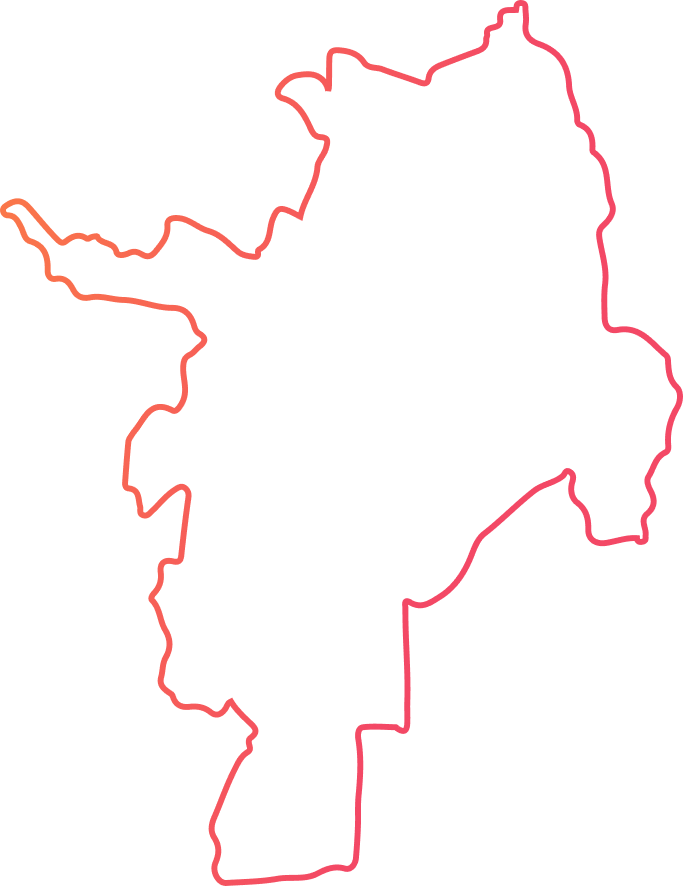
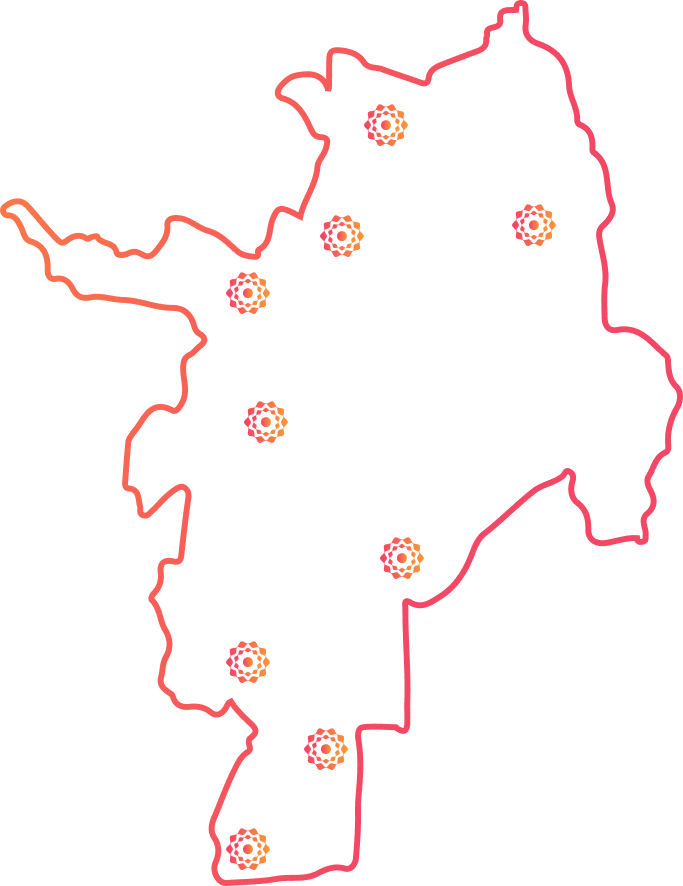
added info and getters

diff --git a/mapa.js b/mapa.js
@@ -1,23 +1,82 @@
 function setup() {
     const w = window.innerWidth;
     const h = window.innerHeight;
+    let  miStorage = window.localStorage;
     createCanvas(w, h);
     img = loadImage('/data/Mapa Cali.png');
     mouse = loadImage('/data/mouse.png')
     imageMode(CENTER);
     document.body.style.cursor = 'none';
 }
+let ubicaciones = [];
 let trail = [];
 let a = 0;
+
+
+ubicaciones[0]={
+    nombre: "Parque la Flora",
+    posX: 824,
+    posY: 137,
+    valor: 130,
+    }
+    ubicaciones[1]={
+    nombre: "Unico",
+    posX: 971,
+    posY: 237,
+    valor: 370,
+    }
+    ubicaciones[2]= {
+    nombre: "San Nicolas",
+    posX: 780,
+    posY: 247,
+    valor: 400,
+    }
+    ubicaciones[3]={
+    nombre: "San Antonio (loma)",
+    posX: 693,
+    posY: 301,
+    valor: 200,
+    }
+    ubicaciones[4]={
+    nombre: "Tequendama",
+    posX: 707,
+    posY: 426,
+    valor: 230,
+    }
+    ubicaciones[5]={
+    nombre: "Caney",
+    posX: 844,
+    posY: 556,
+    valor: 200,
+    }
+    ubicaciones[6]={
+    nombre: "Unicentro",
+    posX: 692,
+    posY: 656,
+    valor: 300,
+    }
+    ubicaciones[7]={
+    nombre: "Javeriana",
+    posX: 765,
+    posY: 740,
+    valor: 240,
+    }
+    ubicaciones[8]={
+    nombre: "Comfandi",
+    posX: 690,
+    posY: 835,
+    valor: 50,
+    }
 
 function draw (){
     const w = window.innerWidth;
     const h = window.innerHeight;
     
     background(0);
-    paintMouse()   
+    
     img.resize(h*0.77,h-10);
     image(img, w/2, h/2);
+    paintMouse()   
 }
 
 
@@ -29,6 +88,7 @@ function windowResized(){
 
   function paintMouse(){
       
+    
     trail.push([mouseX, mouseY]);
     for(let i = 0; i < trail.length; i++) {
     noStroke();
@@ -41,4 +101,15 @@ function windowResized(){
       a += 5;
     };
     image(mouse,mouseX,mouseY);
+    
   }
+function mousePressed(){
+    
+    ubicaciones.forEach(actual =>{
+       if(actual.posX-23 < mouseX && actual.posX+23>mouseX&&actual.posY-23<mouseY&&actual.posY+23>mouseY){
+        localStorage.setItem('nombre', actual.nombre);
+        localStorage.setItem('valor', actual.valor);
+        console.log(actual.valor + ":" + actual.nombre)
+       }
+    })
+}
